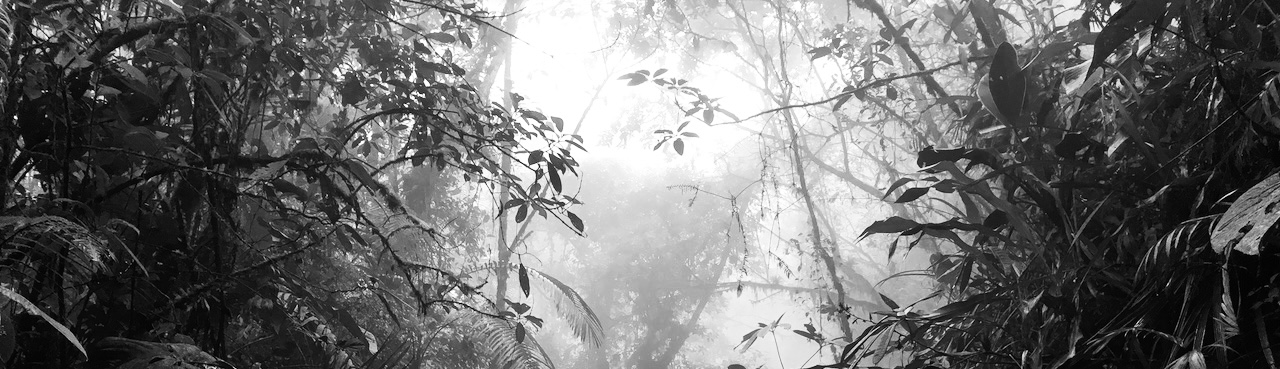
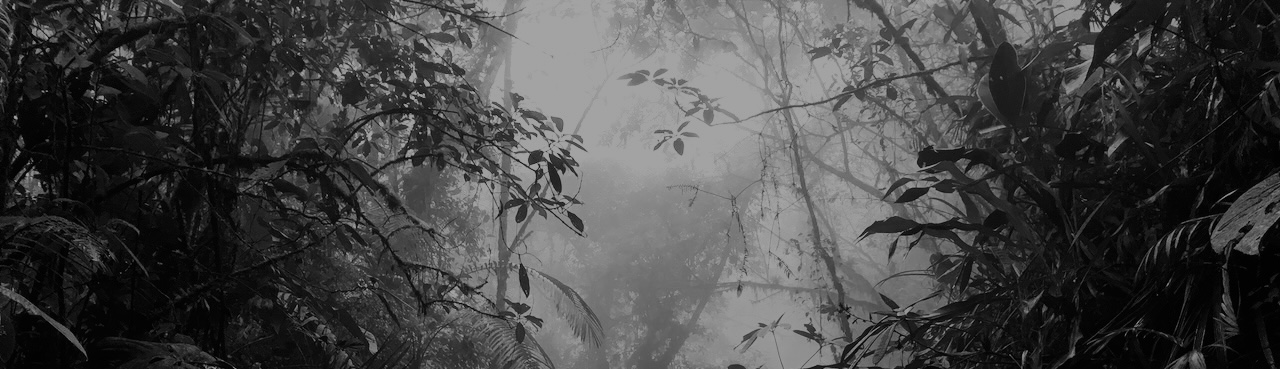
ENH: visuals and buttons

diff --git a/_layouts/default.html b/_layouts/default.html
@@ -23,7 +23,7 @@
         <a href="{{ site.github.googlescholar_url }}" class="btn">Google Scholar</a>
         <a href="{{ site.github.github_url }}" class="btn">GitHub</a>
         <a href="{{ site.github.orcid_url }}" class="btn">ORCID</a>
-        <a href="{{ site.github.email}}" class="btn">e-mail</a>
+        <a href="mailto:julloa@humboldt.org.co" class="btn">e-mail</a>
       {% endif %}
     </header>
 

diff --git a/_sass/jekyll-theme-cayman.scss b/_sass/jekyll-theme-cayman.scss
@@ -110,7 +110,7 @@ a {
   color: $header-heading-color;
   text-align: center;
   background-color: $header-bg-color;
-  background-image: url("../../assets/cloud_forest.jpg");
+  background-image: url("../../assets/thraupis.jpg");
   background-size: cover;
   background-position: center;
 

diff --git a/_site/assets/css/style.css b/_site/assets/css/style.css
@@ -741,7 +741,7 @@ a:hover {
   color: #fff;
   text-align: center;
   background-color: #393939;
-  background-image: url("../../assets/cloud_forest.jpg");
+  background-image: url("../../assets/thraupis.jpg");
   background-size: cover;
   background-position: center;
 }
